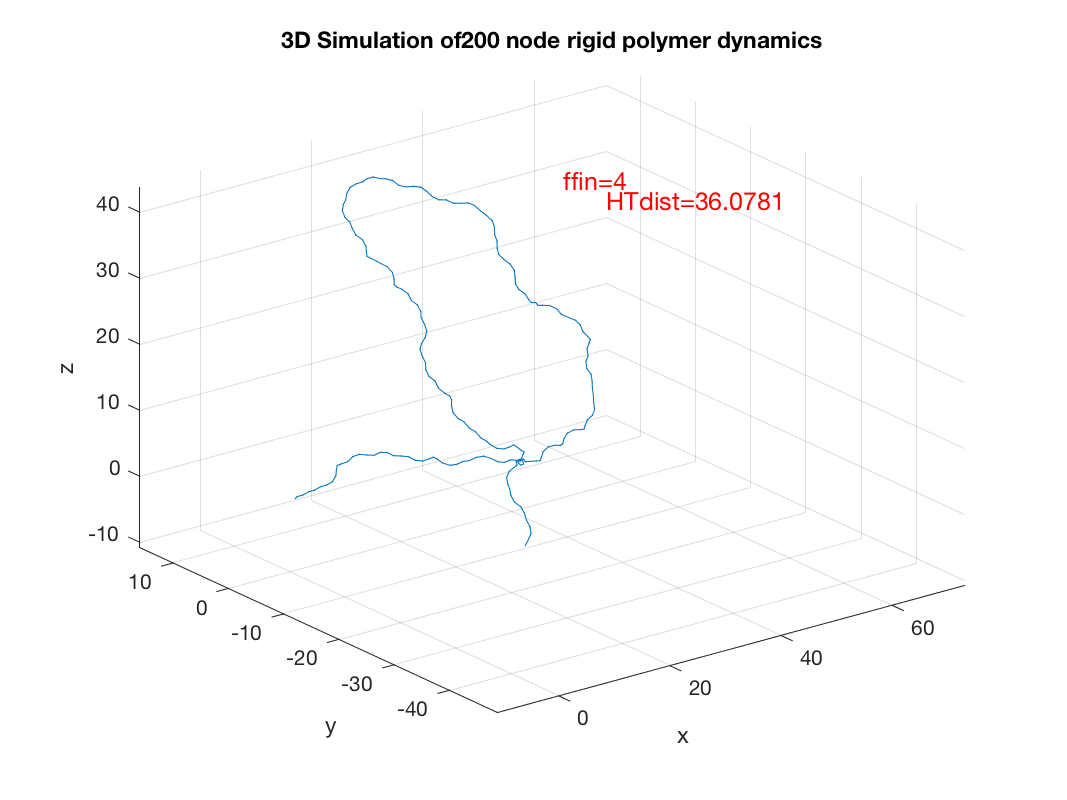
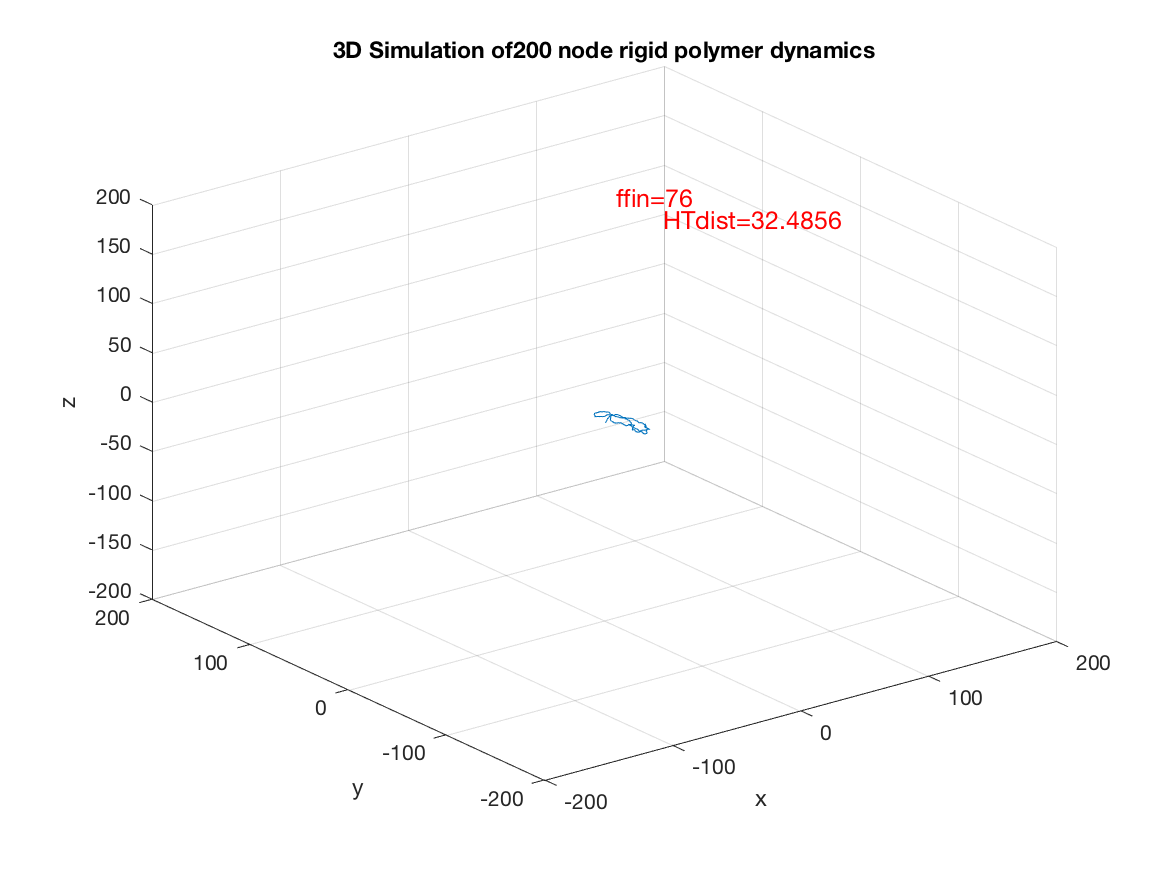
update code

diff --git a/BL_RT_Para_Ising_Rand_Walk_Dist_3D.m b/BL_RT_Para_Ising_Rand_Walk_Dist_3D.m
@@ -52,8 +52,8 @@ pTf(1) = 0;
 pEf(1) = pE(p, Hc, Ht);
 pDf(1) = HTdist(p, L, angle);
 
-% for n = 2:trial+1
-parfor n = 2:trial+1
+for n = 2:trial+1
+    % parfor n = 2:trial+1
     % To twist till looped
     [Pnew, HTd, fin] = twistLoopRand(pathN, n, p, Pc, Pt, a, L, angle, Hc, Ht);
     pTf(n) = fin;
@@ -116,8 +116,8 @@ function fp = createRandPolymer(fnode)
 fp = zeros(1,fnode);
 fp(2) = 0;
 
-% for no = 3:fnode-1
-parfor no = 3:fnode-1
+for no = 3:fnode-1
+    % parfor no = 3:fnode-1
     r = rand();
     if r < 1/3
         fp(no) = 0;      % not flip, stay trans
@@ -151,12 +151,12 @@ xt = fv(1,:);
 yt = fv(2,:);
 zt = fv(3,:);
 plot3(xt(1:stair),yt(1:stair),zt(1:stair));
-xlmin = min(xt);
-xlmax = max(xt);
-ylmin = min(yt);
-ylmax = max(yt);
-zlmin = min(zt);
-zlmax = max(zt);
+xlmin = -length(fp)*fL;
+xlmax = length(fp)*fL;
+ylmin = -length(fp)*fL;
+ylmax = length(fp)*fL;
+zlmin = -length(fp)*fL;
+zlmax = length(fp)*fL;
 axis([ xlmin, xlmax, ylmin, ylmax, zlmin, zlmax]);
 grid;
 xlabel 'x';
@@ -171,11 +171,18 @@ while HTdist(fPnew, fL, fangle) > fa
     no =  randsample(2:length(fp)-1,1);
     
     Pno = randFlip(fPnew(no));
-    Phypo = [fPnew(1:no-1), Pno, fPnew(no+1:end)];    % hypothetical change
+    Phypo1 = [fPnew(1:no-1), Pno(1), fPnew(no+1:end)];    % hypothetical change
+    Phypo2 = [fPnew(1:no-1), Pno(2), fPnew(no+1:end)];    % hypothetical change
     
-    Pchg = pE(Phypo, fHc, fHt)/(pE(Phypo, fHc, fHt)+pE(fPnew, fHc, fHt));
-    if rand() < Pchg
-        fPnew = Phypo;      % change state
+    Pch1 = pE(Phypo1, fHc, fHt)/(pE(Phypo1, fHc, fHt)+pE(Phypo2, fHc, fHt)+pE(fPnew, fHc, fHt));
+    Pch2 = pE(Phypo2, fHc, fHt)/(pE(Phypo1, fHc, fHt)+pE(Phypo2, fHc, fHt)+pE(fPnew, fHc, fHt));
+    rtt = rand();
+    if rtt < Pch1
+        fPnew = Phypo1;      % change state
+    else
+        if rtt < Pch1+Pch2
+            fPnew = Phypo2;
+        end
     end
     if HTdist(fPnew, fL, fangle) < fa
         break;
@@ -192,12 +199,12 @@ while HTdist(fPnew, fL, fangle) > fa
     
     plot3(xt(1:stair), yt(1:stair), zt(1:stair));
     grid;
-    xlmin = min(min(xt),xlmin);
-    xlmax = max(max(xt),xlmax);
-    ylmin = min(min(yt),ylmin);
-    ylmax = max(max(yt),ylmax);
-    zlmin = min(min(zt),zlmin);
-    zlmax = max(max(zt),zlmax);
+    xlmin = -length(fp)*fL;
+    xlmax = length(fp)*fL;
+    ylmin = -length(fp)*fL;
+    ylmax = length(fp)*fL;
+    zlmin = -length(fp)*fL;
+    zlmax = length(fp)*fL;
     axis([ xlmin, xlmax, ylmin, ylmax, zlmin, zlmax]);
     xlabel 'x';
     ylabel 'y';
@@ -215,7 +222,7 @@ while HTdist(fPnew, fL, fangle) > fa
     text(xl,yl2,zl, strcat('HTdist=',num2str(HTdist(fPnew, fL, fangle))),'Color','red','FontSize',12);
     drawnow;
     
-%       pause(0.6)
+    %       pause(0.6)
     
     disp(strcat('Debug ',num2str(ffin),': ', num2str(fPnew)));
     
@@ -236,19 +243,10 @@ end
 function fPno = randFlip(fn)
 % To randomly flip
 
-r = rand();
 if fn == 0
-    if r < 0.5
-        fPno = 1;
-    else
-        fPno = -1;
-    end
+    fPno = [1, -1];
 else
-    if r < 0.5
-        fPno = 0;
-    else
-        fPno = -fn;
-    end
+    fPno = [0, -fn];
 end
 
 end
@@ -258,8 +256,8 @@ function fE = pE(fp, fHc, fHt)
 
 fE = 0;
 
-% for no = 3:length(fp)-1
-parfor no = 3:length(fp)-1
+for no = 3:length(fp)-1
+    % parfor no = 3:length(fp)-1
     if abs(fp(no)) == 1
         fE = fE + fHc;      % cis
     else
